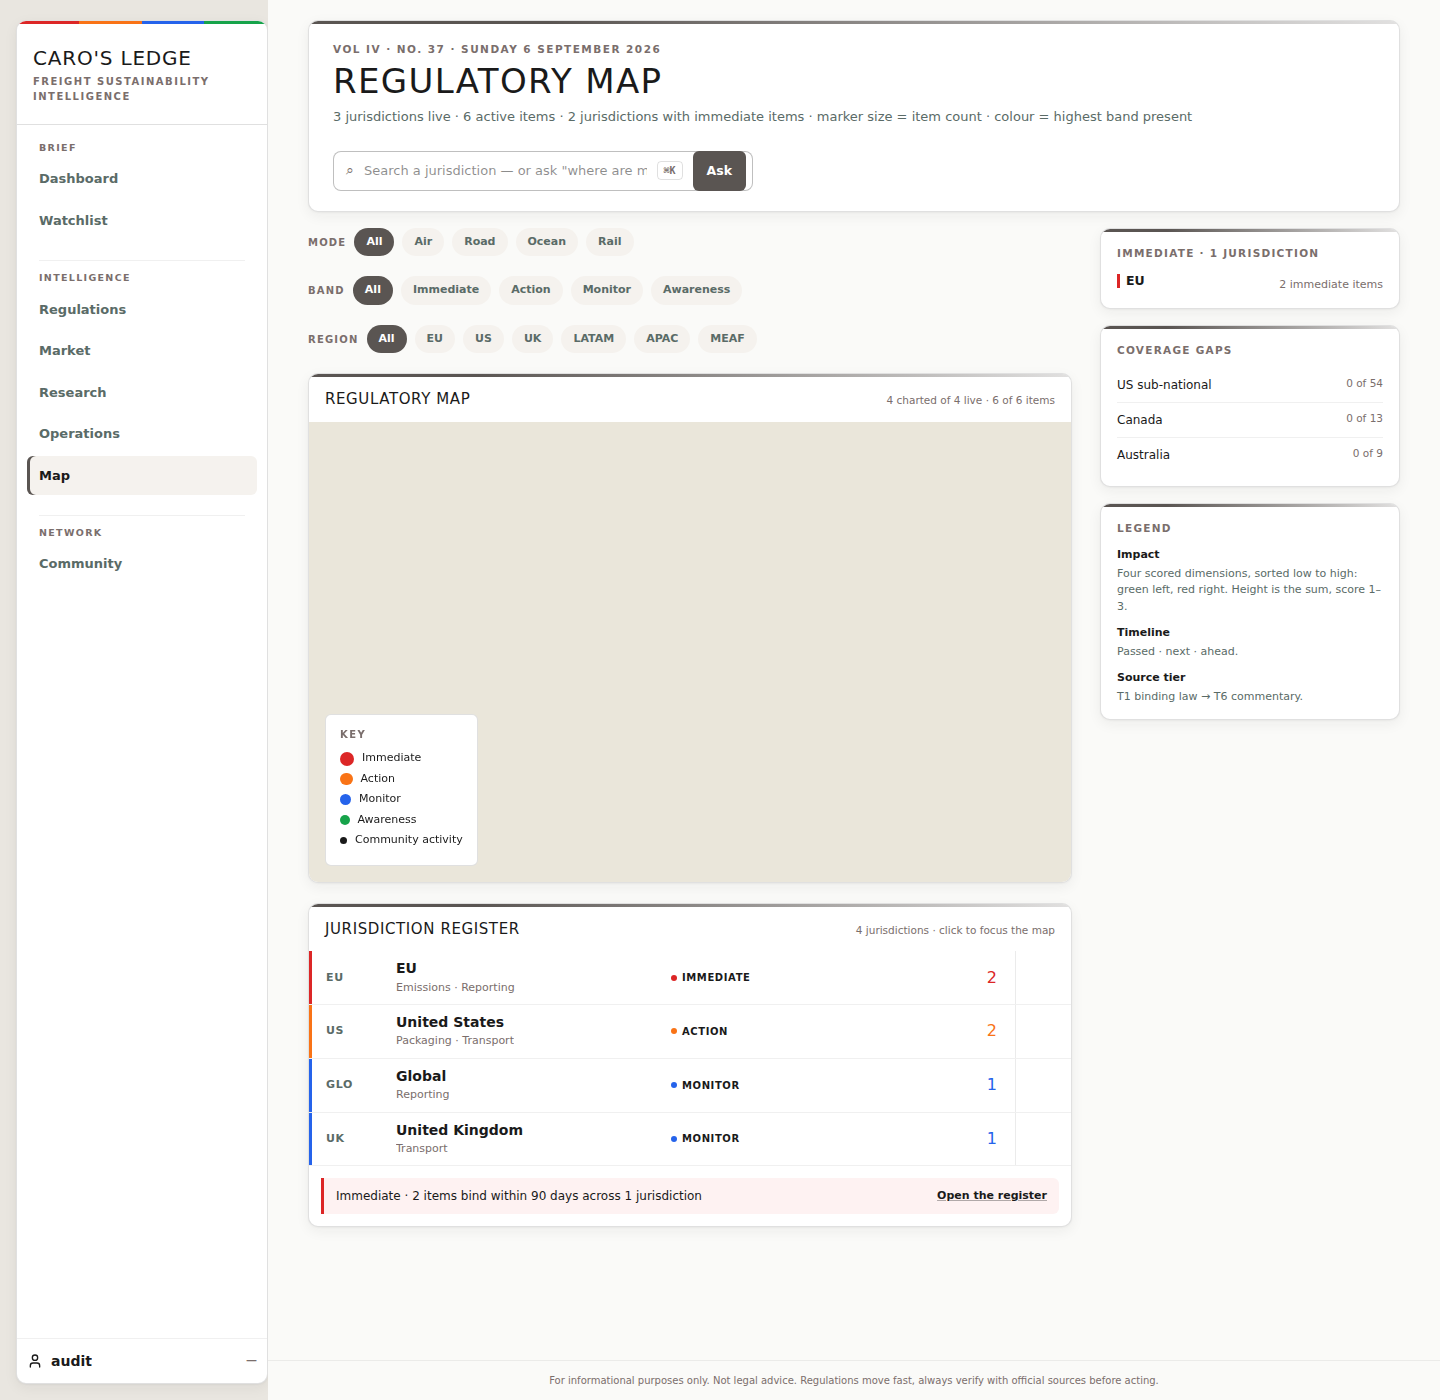
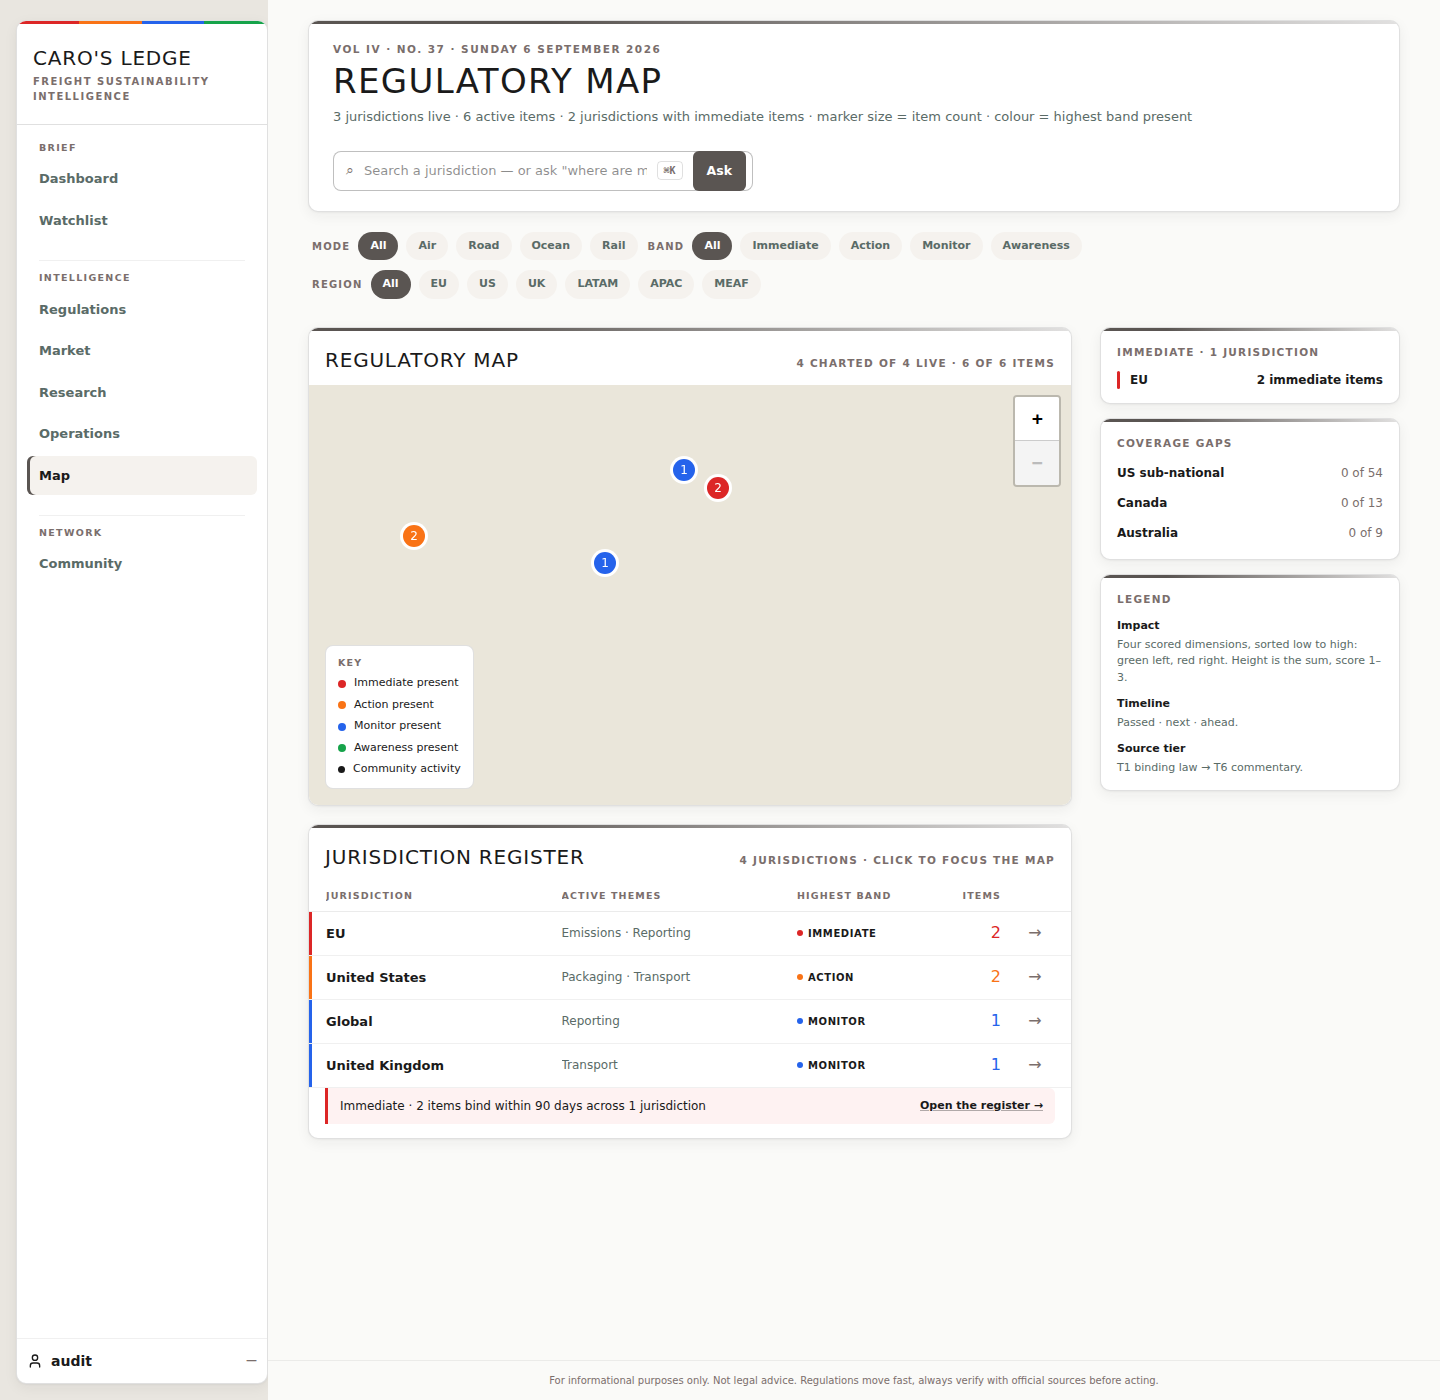
test(audit): measure every /map difference this lane closed, and log the ones it did not
compose-10-map.json gains 15 rows and two boundsCheck entries: the filter row's
full-grid span and its two-line height (the MODE/BAND wrap), the 420px canvas,
the KEY's measures and its "<Band> present" wording, the register's header grid
and labels, the row grid and 44px height, one arrow per row, one link per row,
and the three rail cards by their own data-audit hooks.

The row that actually catches the empty canvas is geometric, not presence-based.
The first draft asserted the markers as descendants of the canvas; the attack
(styleFiles removed) left all 35 rows MATCH, because selector matching is DOM
ancestry and the markers were still descendants while laid out 2700px below the
card. Refuted in place, replaced with a containmentOnly boundsCheck, re-attacked:
that one row goes MISMATCH and nothing else does.

map-register.json follows the register onto the variant it now renders, and its
prior note about "a genuine layout-strategy difference" from p10 is retired
because the difference is gone.

Design audit: 60 specs, 1024 checks, 1024 MATCH.

(cherry picked from commit d2e5fd6d5f4e6070ca664dd5cb1dae90e3183f87)
(cherry picked from commit 139aea90f3d5967d93b1b4918f0021810c697423)

diff --git a/docs/design/handoff-2026-09-06/DEVIATION-LOG.md b/docs/design/handoff-2026-09-06/DEVIATION-LOG.md
@@ -292,3 +292,21 @@ logged here as a data-driven or deferred difference with the data path that was 
 | 2026-09-08 | Evidence harness, one fixture per page | `capture-compose-lists-screenshots.mjs` carried its own copies of every ledger's row builder, the obligation route, the market series board and the empty-aggregates shape, beside the identical fixtures in `.discipline/rendering/audit/mounts.mjs`. Every entry now names an `AUDIT_MOUNTS` id; the local copies are deleted. `capture-compose-11-watchlist.mjs`, which wrote a bare PNG and left the side-by-side to be assembled by hand, now composites through the shared `compose-composite.mjs`. | Two fixtures meant a compose-*.json spec and its own evidence PNG could measure different pages while both stayed green, the drift FOLD-59 found the hard way when two entries silently lost their `artboard` key and the script wrote nothing at all. CLAUDE.md rule 13: the copies are deleted, not left dormant. | lane lists60, 2026-09-08 |
 | 2026-09-08 | Test adapted to the product, `watchlist-team-smoke.mjs` | The one-row check read the row's trailing control directly as the watch toggle. The row's trailing control is now the `⋯` kebab, so the check opens the menu and reads the watch control inside it. | Tests describe the product, not its old shape. The INVARIANT the check guards (ruling 3.5: a watched row never offers a bare "Watch") is unchanged and is now asserted in both directions, the menu must offer unwatch, and must not read a bare "Watch". | lane lists60, 2026-09-08 |
 | 2026-09-08 | Test adapted to the product, `ListSurfaceShell.npmtest.mjs` | The Filters-card assertion matched the literal `Clear {activeCount}`, which the unconditional link no longer contains. | Same reason. The invariant is stronger now, not weaker: the test asserts BOTH the artboard's two label forms and the disabled-when-empty behaviour. | lane lists60, 2026-09-08 |
+
+## Lane map60 (artboard 10, /map), 2026-09-08
+
+| Date | Page / deviation | Detail | Source read | Ruled by |
+|---|---|---|---|---|
+| 2026-09-08 | Map (10), THE EMPTY CANVAS WAS THE FIXTURE, not the product | [CONFIRMED, measured in-browser this session] The compose-map mount aliases `leaflet/dist/leaflet.css` to an empty module so esbuild needs no output path for a bare `.css` import, and nothing put the real stylesheet back. Leaflet still BUILT the four fixture markers: `document.querySelectorAll('.leaflet-marker-icon').length === 4`, each with its correct `translate3d` transform. Without leaflet's own rules, nothing gives `.leaflet-pane` / `.leaflet-marker-icon` `position:absolute`, so every marker laid out in normal document flow at y ~= 3595 while the 420px card sits at y ~= 448, and the canvas photographed empty. Fixed in the HARNESS, not the product: `mounts.mjs` gains a `styleFiles` field and a `mountExtraCss(mount)` reader, honoured by both `run-audit.mjs` and `capture-compose-page.mjs`, pointed at `fsi-app/node_modules/leaflet/dist/leaflet.css`. leaflet is already an app dependency, nothing is fetched, and this is the same technique `.discipline/rendering/smoke/map-smoke.mjs` has used since lane uimapcomm. Proven by attack: putting `styleFiles: []` back turns the new geometric boundsCheck row MISMATCH ("extends outside its container") and nothing else. | dc.html id="p10"; the mount's own alias table; a scripted DOM measurement of `.leaflet-marker-icon` rects with and without the stylesheet. | lane map60, 2026-09-08 |
+| 2026-09-08 | Map (10), NO BASEMAP TILES in any sandbox capture | [CONFIRMED, this session] `MapView`'s tile layer is `https://{s}.tile.openstreetmap.org/...`; every request from this container fails `ERR_TUNNEL_CONNECTION_FAILED` at the egress proxy. The canvas therefore renders its `#EAE6DA` ground with the markers on top. No static basemap fallback exists anywhere in the app and none was added, because a bundled tile asset would be a new external dependency the dispatch forbids. The artboard itself does not draw a real basemap either: it draws a hatch captioned "BASEMAP · light, desaturated, no labels below country level". Production verification of the live tile layer was ATTEMPTED (Playwright, read-only, https://carosledge.com/map) and is also blocked by the same egress policy, so no claim is made here about the live basemap in either direction. | The artboard's own basemap caption; the proxy's own refusal, twice. | lane map60, 2026-09-08 |
+| 2026-09-08 | Map (10), marker SIZE is now the item count, not the band | [CONFIRMED, tested this session] The page's own masthead states the encoding in words ("marker size = item count · colour = highest band present") and dc.html p10 draws it: 1 and 2 items are both 22px, 3 is 26px, 28 is 36px, 392 and 549 are both 56px. `markerSize` took its base from the BAND (immediate 22 down to awareness 11), so a 1-item Monitor jurisdiction drew a 13px dot where the artboard draws 22, and size restated the colour's information. Replaced with square-root growth off a 22px floor capped at 56, which reproduces every value the artboard states; the numeral is 16px on the two largest markers and 12px below, and the white separation is p10's 3px outset ring rather than a border that ate into the stated diameter. The 44px hit floor is unchanged. | dc.html id="p10" marker markup, all six markers read verbatim. | lane map60, 2026-09-08 |
+| 2026-09-08 | Map (10), MODE and BAND now share one line | [CONFIRMED, tested this session] dc.html p10 puts the filter row at `grid-column:1/-1` in the content grid, spanning the rail as well as the content column, as one flex row with `gap:10px`, `flex-wrap:wrap`, `padding:0 4px`. The build had it INSIDE the content column at `gap:20`, so the three groups stacked on three lines (postscript 14's own finding). Moved and re-measured; MODE and BAND land on the first line, REGION on the second, exactly as drawn. Measured by the spec as the row's own width (full grid span) and its 70px two-line height. | dc.html id="p10" filter-row markup, verbatim. | lane map60, 2026-09-08 |
+| 2026-09-08 | Map (10), the register gets p10's column headers, its six-column grid and its per-row arrow | [CONFIRMED, tested this session] p10 draws the register on `3px 1fr 1fr 110px 80px 40px` with JURISDICTION / ACTIVE THEMES / HIGHEST BAND / ITEMS headers and a trailing → glyph, the jurisdiction NAME and its THEMES side by side in their own columns. The eight-column list grid cannot express that: it put the code in the 56px cell and the themes on a second line under the title. Closed by an ADDITIVE `variant="register"` on the shared `ListRow` (plus `ListRowColumnHeader`'s matching `variant`), never a page-local table and never a fork; `variant` defaults to "list" so all six existing callers are byte-identical. The whole row remains the one click target and the arrow is `aria-hidden` decoration, not a second target. | dc.html id="p10" register header + all seven row blocks, verbatim. | lane map60, 2026-09-08 |
+| 2026-09-08 | Map (10), the merged `4 / span 4` endStat cell is DELETED, not left beside the register variant | [CONFIRMED, tested this session] `endStat` used to render inside the eight-column list grid as one merged cell, an approximation of p10 that `map-register.json`'s own note called "a genuine layout-strategy difference" from the artboard. With the register variant reproducing p10 exactly, keeping both would be two ways to render the same row (rule 13). Removed; `endStat` survives as the register variant's stat data. Everything wired to the old shape was updated to the new one rather than kept alive: `map-smoke.mjs`'s register mount, `ListRow.npmtest.mjs` (the one-click-target invariant is unchanged, counted per branch now), `map-register.json` and its mount entry. | Rule 13; map-register.json's own prior note. | lane map60, 2026-09-08 |
+| 2026-09-08 | Map (10), the KEY's four band entries read "<Band> present" on uniform 8px dots | [CONFIRMED, tested this session] p10's key box is `padding:10px 12px`, radius 8, 11px body, 5px row gap, a 9.5/.12em "KEY" label, and four entries, "Immediate present", "Action present", "Monitor present", "Awareness present", each on an identical 8px dot. The build labelled them with the bare band name and graduated the dots 14/12.5/11/9.5, which read as a size scale the artboard does not have. All corrected. | dc.html id="p10" KEY markup, verbatim. | lane map60, 2026-09-08 |
+| 2026-09-08 | Map (10), the KEY's fifth entry "Community activity" is KEPT under R7 | [CONFIRMED, this session] The artboard draws four entries. The fifth names a REAL map state: `MapView` renders a 7px black dot per region with live community threads, fed by `/map`'s own `fetchCommunityActivityByRegion` read. R7 keeps a real feature the artboard does not draw and places it after the last designed entry, which is where it already sat. Not decorative, so not removed. (This restates the same finding lane compose-other logged on 2026-09-08; the disposition is unchanged, and the entry now carries the placement rule it follows.) | R7. | lane map60, 2026-09-08 |
+| 2026-09-08 | Map (10), the zoom control the artboard does not draw is KEPT under R7 | [CONFIRMED, this session] p10 draws no zoom buttons. Leaflet's `+`/`−` control is a real, working control on a pannable map (and the one already sized to the 44px floor by an earlier lane), so R7 keeps it. It sits at the canvas's top-right, inside the map region and over no other artboard region, so no relocation applies. | R7. | lane map60, 2026-09-08 |
+| 2026-09-08 | Map (10), three page-local duplications of shared parts removed | [CONFIRMED, tested this session] `MapPageView` carried its own `CardHead` (15px title, no uppercase aside), its own `railLabelStyle`, and a verbatim copy of `LegendRailCard`'s three definitions inside its own card shell. All three are shared parts already: the card heads are now the shared `SectionHeading` (which owns artboard 1/10/11's identical 20px Anton head and the .04em ruling), and the rail is the shared `RailCard` plus `LegendRailCard`. Rule 13; it also closes the head-type difference against p10 in the same motion. | Rule 13; dc.html id="p10" card heads and rail cards. | lane map60, 2026-09-08 |
+| 2026-09-08 | Map (10), the rail LEGEND card has no sample column, SHARED-PART item, not fixed here | [CONFIRMED, tested this session, NOT FIXED] p10's LEGEND card lays out each row as `80px 1fr`: a drawn sample (the four-bar impact meter, the timeline dots, a T1 chip) beside its sentence. The shared `LegendRailCard` renders a definition list with no samples. The SAME card is drawn identically on artboards 02, 04, 06, 08 and 11, all owned by other lanes in this train, so changing its internals from a /map lane would land the same edit twice in the fold. Named for a shared-parts lane; using the shared card (rather than fixing a copy on /map) is what makes that one edit possible. | dc.html id="p10" LEGEND markup vs `ListSurfaceRailCards.tsx`'s `LegendRailCard`. | lane map60, 2026-09-08, needs one shared-parts lane to give `LegendRailCard` the artboard's 80px sample column for all six artboards at once. |
+| 2026-09-08 | Map (10), the fixture's counts and jurisdiction set are not the artboard's | [CONFIRMED, this session] The artboard shows 7 jurisdictions / 976 items (EU 392, Global 549, US 28, Latin America 3, UK 2, GB 1, China 1); the compose fixture carries 6 resources across 4 jurisdictions, so the register has 4 rows, the masthead reads 3 live, and the markers read 1 and 2. Sample data in the mock is never shipped; every figure on the page is derived from the data it is given. The register also has no "+ N more" remainder line here because the fixture is under the 12-row cap. | README: sample data in the mock is never shipped. | lane map60, 2026-09-08 |
+| 2026-09-08 | Harness, `detectBoundsViolations` gains `containmentOnly` | [CONFIRMED, tested this session] The geometric marker check needs the container half of the bounds assertion and NOT the sibling-overlap half: marker positions come from DATA (jurisdiction centroids), so two geographically close jurisdictions overlap by geography, the artboard itself draws its 2 and 392 markers all but touching. Added as an explicit per-check opt-in with its own adversarial test (`assertions.test.mjs`: overlap ignored, escape still reported); every grid and table caller leaves it unset and keeps both halves. It is not a general relaxation. | The fixture's own measured marker rects; dc.html id="p10". | lane map60, 2026-09-08 |
